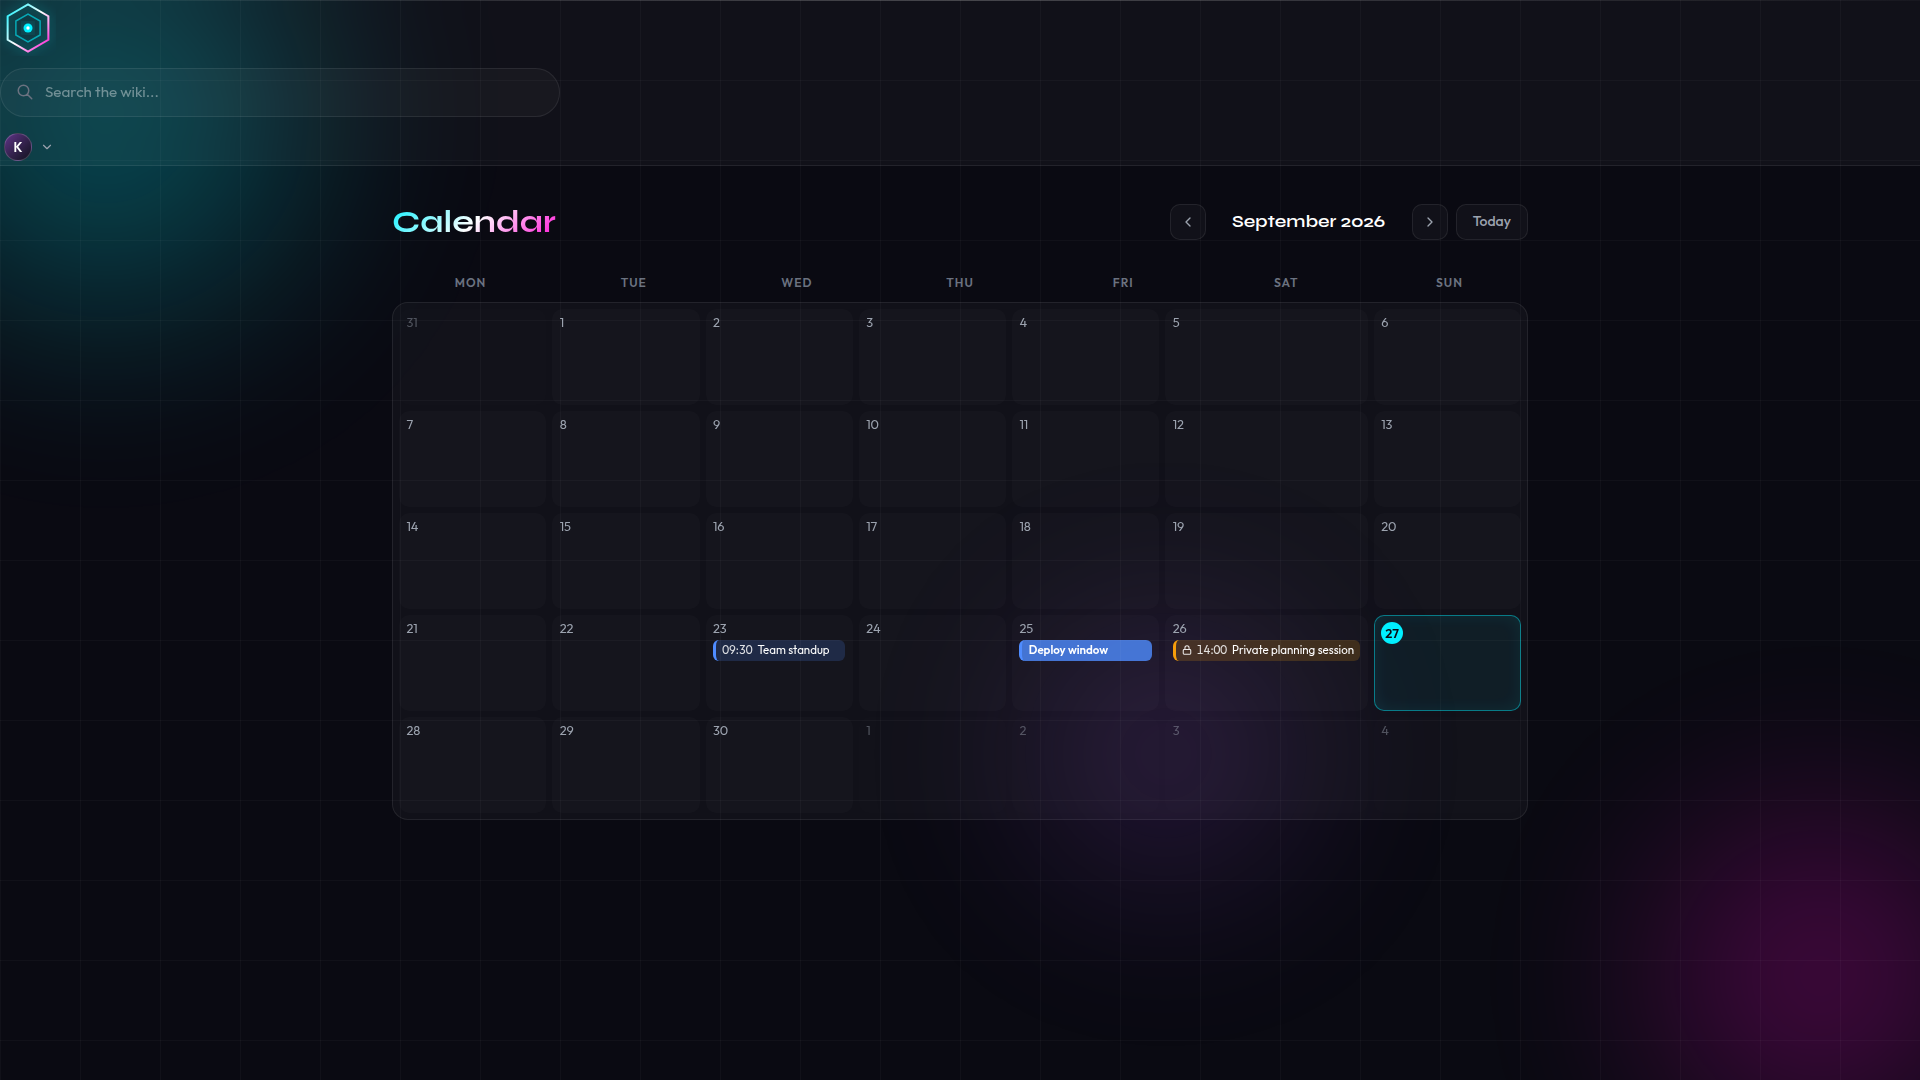
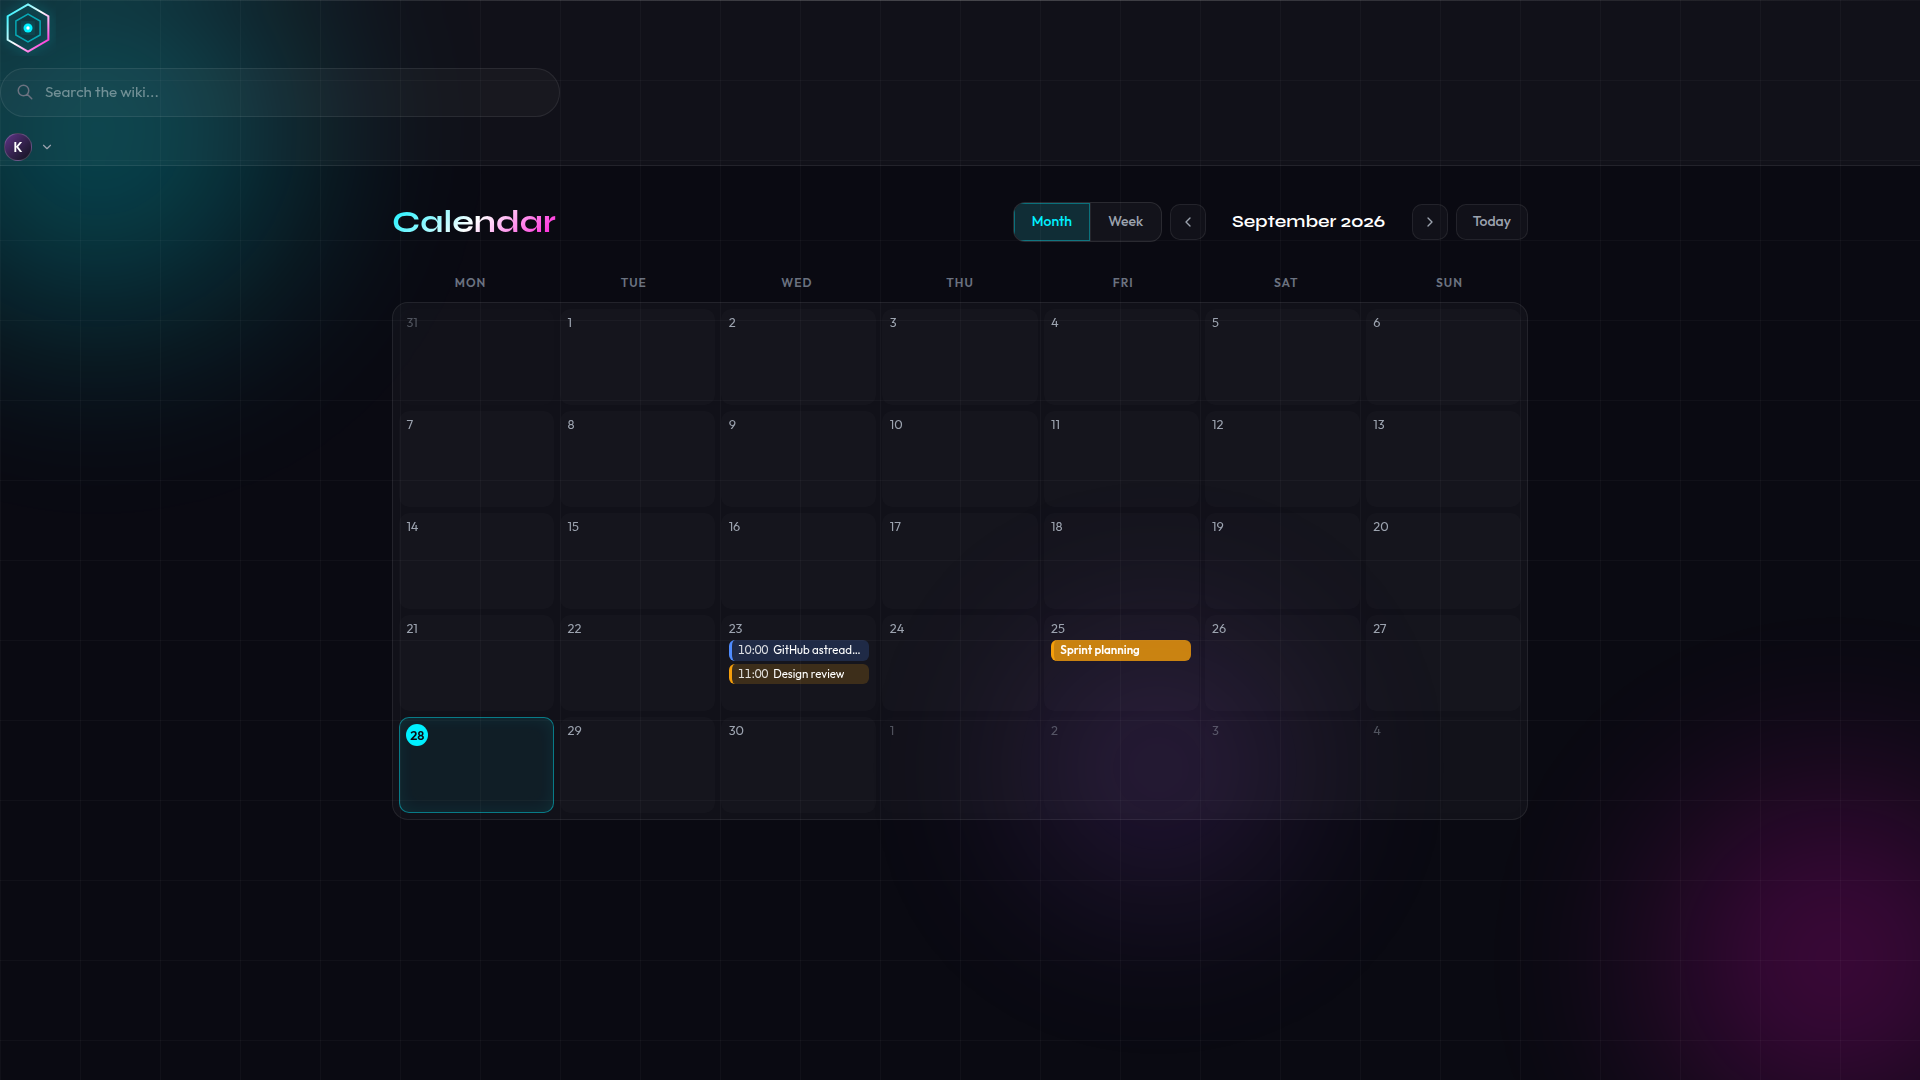
WIKI4AI-111: docs(readme): calendar week view screenshots + phase 2 notes

diff --git a/README.md b/README.md
@@ -18,7 +18,7 @@ Everything runs in a single `docker compose up`: a React SPA behind nginx, a Spr
 |---|---|
 | **Projects & subprojects** | Organize content into projects; nest them as a hierarchy up to 5 levels deep |
 | **Public/Private visibility** | Mark any project or document public (everyone) or private (owner + admins only); private items are hidden from lists, search and detail views for other users |
-| **Calendar** | Shared month-view calendar with all-day and timed events, custom event types with colors, and per-event public/private visibility — in the WebUI and via MCP |
+| **Calendar** | Shared month/week-view calendar with all-day and timed events (hourly grid, overlapping events side by side), custom event types with colors, and per-event public/private visibility — in the WebUI and via MCP |
 | **Markdown editor with autosave** | Split-view source + live preview, debounced autosave (per-user interval), save-state indicator |
 | **Optimistic concurrency control** | Concurrent edits are detected per document version — conflicting saves fail with a clear 409 instead of silently overwriting |
 | **Mermaid diagrams** | ` ```mermaid ` blocks render as SVG entirely in the browser — nothing leaves your machine |
@@ -38,9 +38,13 @@ Everything runs in a single `docker compose up`: a React SPA behind nginx, a Spr
 
 ## Calendar
 
-Plan events in a shared month view: **all-day** or **timed** entries, custom **event types** with their own colors, and per-event visibility. Private events carry a lock badge and are visible only to their creator (admins see everything). The calendar is global — it belongs to the instance, not to a single project — and is fully manageable through the MCP server as well (six tools for events and event types).
+Plan events in a shared **month** or **week** view: **all-day** or **timed** entries, custom **event types** with their own colors, and per-event visibility. Switch between the two with the Month/Week toggle — the choice is kept in the URL (`?view=week`), so links share the exact view. The week view renders an hourly grid (Mon–Sun × 24 h): timed events are positioned by their start time, overlapping events sit side by side, and all-day entries get a strip above the grid. Clicking an empty slot opens the create form pre-filled with that date and hour; clicking an event opens it for editing. Private events carry a lock badge and are visible only to their creator (admins see everything). The calendar is global — it belongs to the instance, not to a single project — and is fully manageable through the MCP server as well (six tools for events and event types).
 
-![Calendar month view with timed, all-day and private events](docs/screenshots/calendar-month.png)
+![Calendar month view with timed and all-day events of different types](docs/screenshots/calendar-month.png)
+
+![Calendar week view — hourly grid with overlapping timed events and an all-day strip](docs/screenshots/calendar-week.png)
+
+![Month view on a mobile viewport — long titles truncate inside the day cell](docs/screenshots/calendar-month-mobile.png)
 
 ![New event form — title, description, type, visibility, date and time](docs/screenshots/calendar-create-form.png)
 
